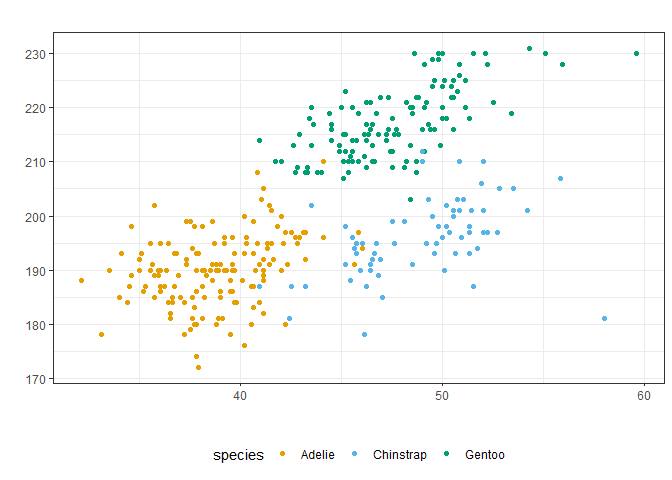
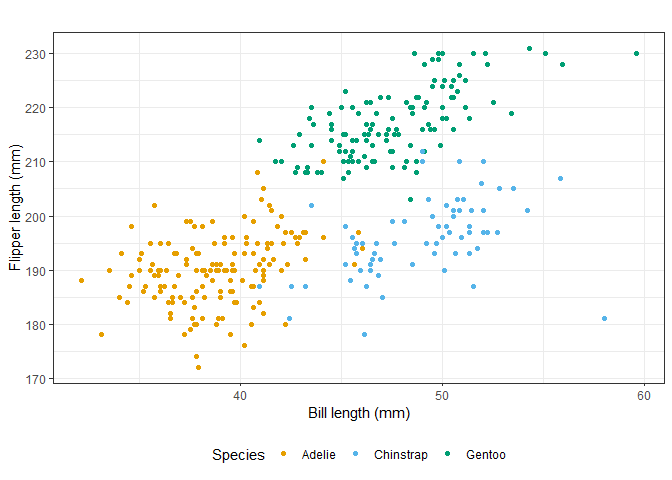
Added table to Markdown

diff --git a/src/homework1-andres-arguedas.md b/src/homework1-andres-arguedas.md
@@ -23,10 +23,13 @@ sim_data <- tibble(
 ``` r
 sim_data %>% ggplot(aes(x = x, y = y, col = indicator_TRUE)) +
   geom_point() +
-  labs(title = "",
-       x = "",
-       y = "",
-       col = "X + Y > 0.5")
+  labs(title = "Figure 1:
+  Two random normal samples of size 1000, one with mean 0 and standard 
+  deviation 1, and the other with mean 1 and standard deviation 2, 
+  colored according to if their sum is greater than 0.5",
+       x = expression(X %~% N(0,1)),
+       y = expression(Y %~% N(1,2)),
+       col = expression(X + Y > 0.5))
 ```
 
 ![](homework1-andres-arguedas_files/figure-gfm/plot-of-simulated-data-1.png)<!-- -->
@@ -36,7 +39,7 @@ sim_data %>% ggplot(aes(x = x, y = y, col = indicator_TRUE)) +
 To start, we need to load the data into R
 
 ``` r
-# Read data with relative path
+# Read the `penguin.RDS` file from the `data` folder
 penguin.df <- read_rds("./data/penguin.RDS")
 ```
 
@@ -47,17 +50,27 @@ penguin.df <- read_rds("./data/penguin.RDS")
 -   Mean flipper length: 200.9152 mm
 -   Mean bill length: 43.9219 mm
 
+| Variable            | Description                                                        | Units or levels             |
+|---------------------|--------------------------------------------------------------------|-----------------------------|
+| `species`           | Species of the penguin                                             | Adelie, Chinstrap or Gentoo |
+| `island`            | Island of the Palmer Archipelago in which the penguin was observed | Biscoe, Dream or Torgersen  |
+| `bill_length_mm`    | Penguin’s bill length                                              | millimeters                 |
+| `bill_depth_mm`     | Penguin’s bill depth                                               | millimeters                 |
+| `flipper_length_mm` | Penguin’s flipper length                                           | millimeters                 |
+| `body_mass_g`       | Penguin’s body mass                                                | grams                       |
+| `sex`               | Penguin’s sex                                                      | Female or male              |
+| `year`              | Study year in which the penguin was observed                       | 2007, 2008 or 2009          |
+
 ## Visualization
 
 ``` r
 penguin.df %>% ggplot(aes(y = flipper_length_mm, x = bill_length_mm, col = species)) +
   geom_point() +
   labs(title = "",
-       x = "",
-       y = "")
+       x = "Bill length (mm)",
+       y = "Flipper length (mm)",
+       col = "Species")
 ```
-
-    ## Warning: Removed 2 rows containing missing values (geom_point).
 
 ![](homework1-andres-arguedas_files/figure-gfm/flipper-and-bill-length-by-species-1.png)<!-- -->
 
@@ -66,10 +79,9 @@ penguin.df %>% ggplot(aes(y = flipper_length_mm, x = bill_length_mm, col = speci
   facet_wrap(~ sex) +
   geom_point() +
   labs(title = "",
-       x = "",
-       y = "")
+       x = "Bill length (mm)",
+       y = "Flipper length (mm)",
+       col = "Species")
 ```
-
-    ## Warning: Removed 2 rows containing missing values (geom_point).
 
 ![](homework1-andres-arguedas_files/figure-gfm/flipper-and-bill-length-by-species-and-sex-1.png)<!-- -->
